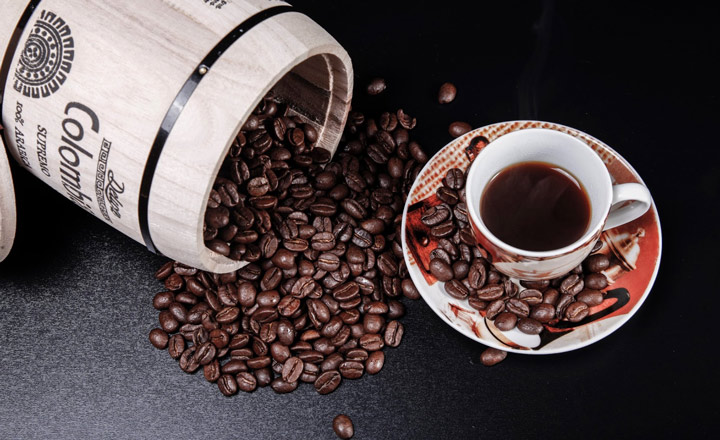
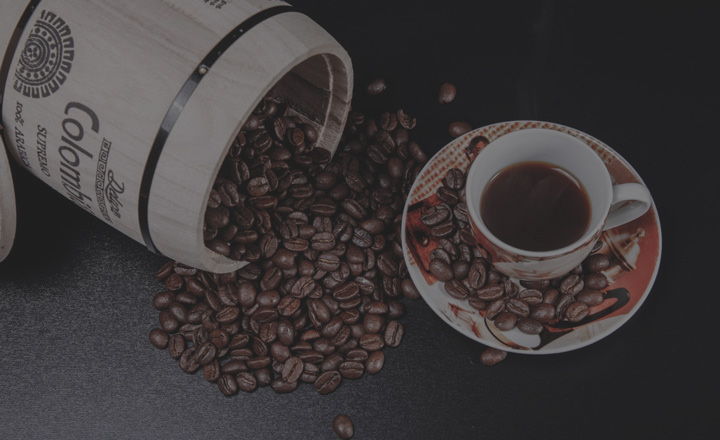
Sprites and Imagery progress
Added sprites, added sprite CSS, aligned sprites, edited typewriter
coffee image 3, added new coffeeimage 3.

diff --git a/css/main.css b/css/main.css
@@ -89,6 +89,8 @@ h3 {
 	font-size: 1.7rem; /*same size as h3, grouping?*/
 }
 
+
+
 p {
 	margin: 5px 0;
 	
@@ -116,10 +118,12 @@ blockquote footer p{
 
 /*text for items*/
 
-#items section header p, #items section .row:nth-child(2) p:nth-of-type(2) { /*category, location*/
+#items section header p, #items section .row:nth-child(2) p:nth-of-type(2), #items .col-1-3 p:nth-of-type(2) { /*category, location*/
 	font-style: italic;
 	
 }
+
+
 
 /*pull out*/
 
@@ -133,11 +137,31 @@ blockquote footer p{
 
 /*sprites*/
 
-footer .col-1-4 a { /*the blue is placeholder until sprites are made*/
+footer .col-1-4 a { 
 	display: inline-block;
 	width: 25px;
 	height: 25px;
-	background-color: blue;
+	background-position: 0 0;
+}
+
+footer .col-1-4 li:first-child a {
+	background: url(../img/facebook.png) no-repeat;
+}
+
+footer .col-1-4 li:nth-child(2) a {
+	background: url(../img/twitter.png) no-repeat;
+}
+
+footer .col-1-4 li:nth-child(3) a {
+	background: url(../img/googleplus.png) no-repeat;
+}
+
+footer .col-1-4 li:nth-child(4) a {
+	background: url(../img/youtube.png) no-repeat;
+}
+
+footer .col-1-4 li a:hover {
+	background-position: 0 -25px;
 }
 
 /*buttons general*/
@@ -196,8 +220,8 @@ body > header div:nth-of-type(2) .button {
 	text-decoration: underline;
 }
 
-#items .button {
-	/*width: 100%;*/
+#items .col-1-3 .button {
+	margin-top: 20px;
 }
 
 /*--1.4 - Forms ------------------------------------------- */
@@ -207,6 +231,19 @@ label {
 
 input {
 	display: block;
+}
+
+/*subscribe*/
+body > form {
+	background-color: #272727;
+}
+
+body > form input, body > form p {
+	display: inline-block;
+}
+
+body > form input {
+	width: 400px;
 }
 
 /*--1.5 - Lists ------------------------------------------- */
@@ -221,10 +258,17 @@ li {
 	font-size: 1.5rem;
 }
 
+footer .col-1-4 ul {
+	padding: 27px 0;
+}
+
+footer .col-1-4 li {
+	margin: 0 10px;
+}
+
 nav li, body > footer .col-5-12 li {
 	border-style: solid;
 	border-width: 1.5px;
-	
 	padding: 10px 20px;
 	margin: 0 20px;
 }
@@ -260,7 +304,7 @@ body > header > div:first-child {
 }
 
 nav {
-	padding: 30px 0;
+	padding: 15px 0;
 }
 
 /*--------------------------------------------------------------
@@ -437,6 +481,12 @@ nav.col-7-12.float-left { /*this is an exception, the nav is touching the logo i
 	float: left;
 }
 
+/*how to brew*/
+
+#items .wrapper .row:nth-of-type(2) {
+	margin-top: 55px;
+}
+
 /*location*/
 
 #location .col-5-12.float-right {
@@ -465,7 +515,7 @@ nav.col-7-12.float-left { /*this is an exception, the nav is touching the logo i
 
 /*hero*/
 
-header .tint {
+header > div {
 	padding: 180px 0 30px;
 }
 
@@ -497,6 +547,7 @@ body > footer {
 
 .logo {
 	max-width: 55%;
+	padding-top: 10px;
 }
 
 /*product images*/
@@ -507,7 +558,7 @@ body > footer {
 	
 }
 
-#items .wrapper .tint {
+#items .wrapper > section > .row:first-child {
 	padding: 20px 20px 125px;
 }
 
@@ -542,9 +593,9 @@ body > footer {
 
 /*--5.2 - Colors ------------------------------------------- */
 
-.tint {
+/*.tint {
 	background-color: rgba(50, 50, 50, 0.6);
-}
+}*/
 
 /*hero*/
 body > header div:nth-of-type(2) {

diff --git a/index.html b/index.html
@@ -13,7 +13,8 @@
         var mapOptions = {
           center: new google.maps.LatLng(45.5231, -122.6765),
           zoom: 13,
-          mapTypeId: google.maps.MapTypeId.ROADMAP
+          mapTypeId: google.maps.MapTypeId.ROADMAP,
+		  scrollwheel: false
         }
         var map = new google.maps.Map(mapCanvas, mapOptions)
       }
@@ -44,15 +45,11 @@
     </div>
     
     <div> <!--hero-->
-    	<div class="tint">
-            
                 <div class="col-1-2 block-center">
                     <h1>Twin Finch Roastery</h1>
                     <p>The most quality coffee in the world from Portland, OR.</p>
                     <a href="#items" class="button">Check Out Our Selection</a>
                 </div>
-            
-        </div>
     </div>
     
 </header>
@@ -81,8 +78,8 @@
          	<h2>Check out our signature blends</h2>
             <section> <!--first item, second item etc.-->
             	
-                <div> <!--card - each item should be a subsection-->
-                	<div class="tint row">
+                <div class="row"> <!--card - each item should be a subsection-->
+                	
                         <header class="col-7-12">
                             <h3>The world famous <span>Finch House Blend</span></h3>
                             <p>Medium</p>
@@ -90,7 +87,7 @@
                         <div class="col-1-3">
                             <h4>98 <span>Rated by coffeereview.com</span></h4>
                         </div>
-                    </div>
+                    
                 </div>
                 <div class="row">
                 	<div class="col-1-2">
@@ -104,13 +101,13 @@
                 </div>
             </section>
             <section>
-            	<div>
-                    <div class="tint row"> <!--card-->
+            	<div class="row">
+                    <!--card-->
                         <header class="col-7-12">
                             <h3>Try our seasonal delight: <span>Evening Oak</span></h3>
                             <p>Medium Dark</p>
                         </header>
-                    </div>
+                   
                 </div>
                 <div class="row">
                     <div class="col-1-2">
@@ -188,10 +185,8 @@
     </div>
 </section>
 <form class="wrapper row"> <!--newsletter sliver-->
-	<div class="col-5-12">
+	<div class="col-5-6">
     	<p>Subscribe to our e-Newsletter:</p>
-    </div>
-    <div class="col-5-12">
     	
         <label for="newsletter">E-Mail</label>
     	<input type="email" name="newsletter" id="newsletter">
